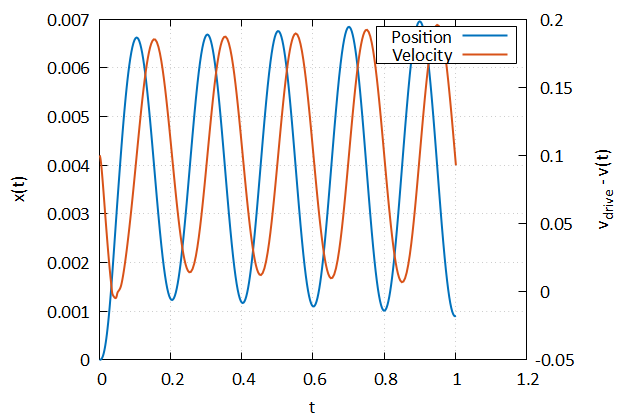
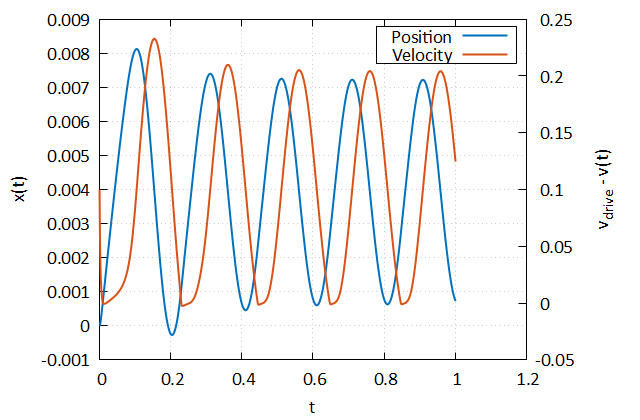
Update Lu-Gre formulation

diff --git a/README.md b/README.md
@@ -11,7 +11,7 @@ F = sign{ \left( v \right)} \mu_{c} N
 ```
 - Lu-Gre Model
 ```math
-F = \sigma_{0} z + \sigma_{1} \frac{dz}{dt} e^{-\left( \frac{v}{v_s} \right)^{2} } + \sigma_{2} v
+F = \sigma_{0} z + \sigma_{1} \frac{dz}{dt} + \sigma_{2} v
 ```
 ```math
 \frac{dz}{dt} = v - \frac{\left| v \right| z}{g(v)}
